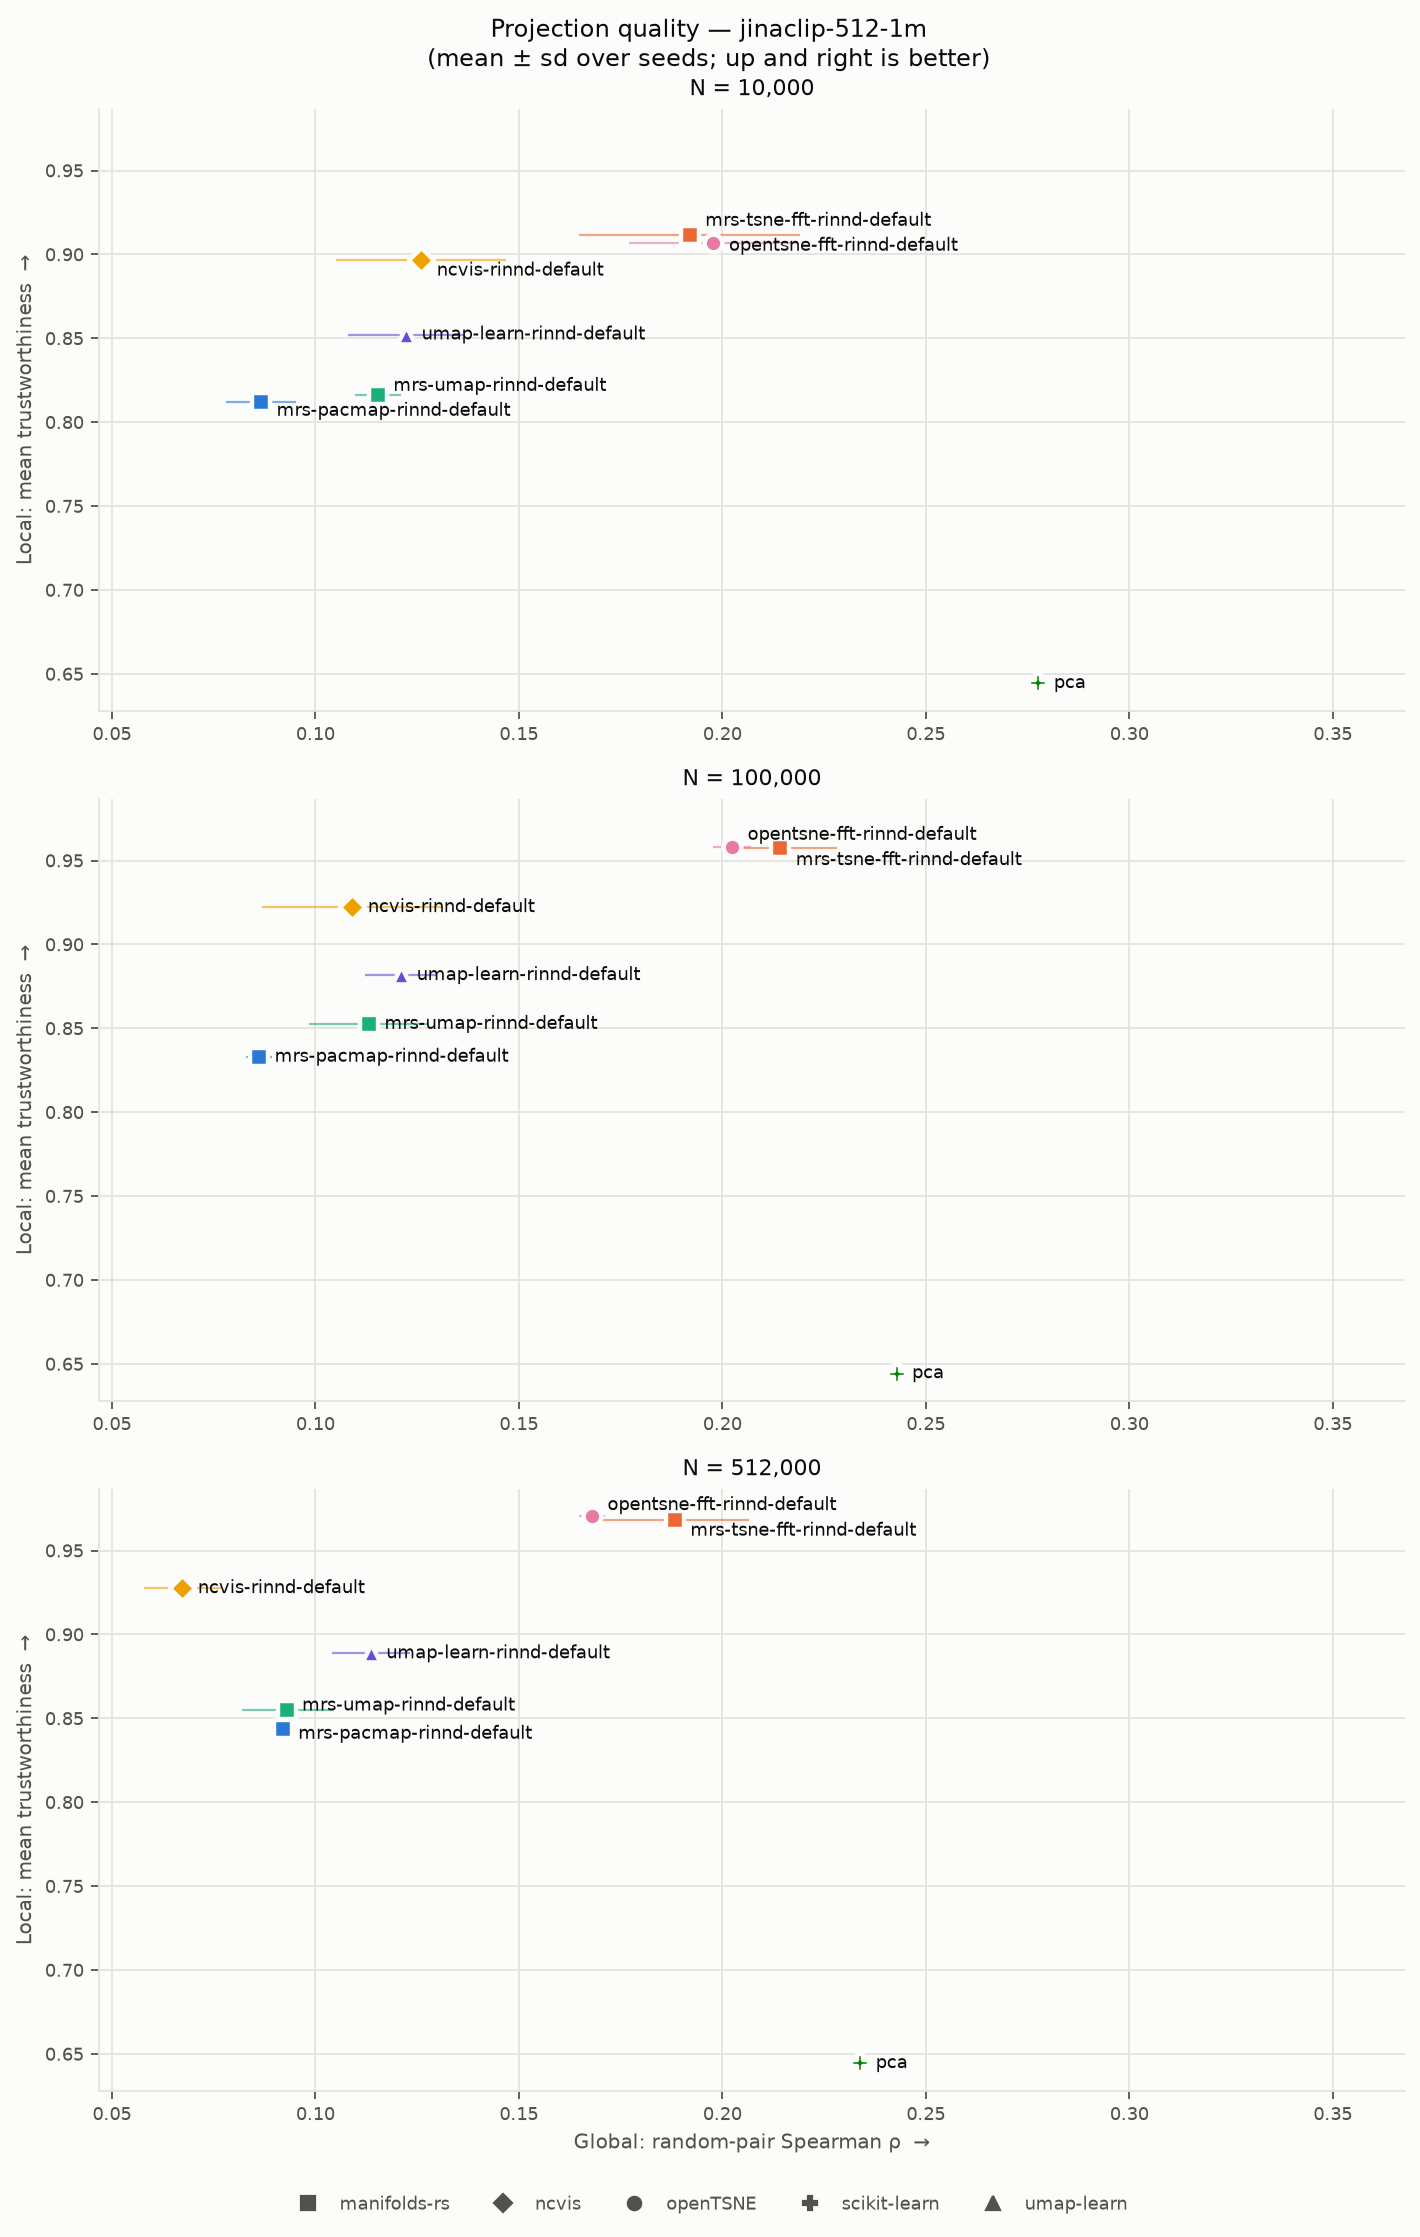
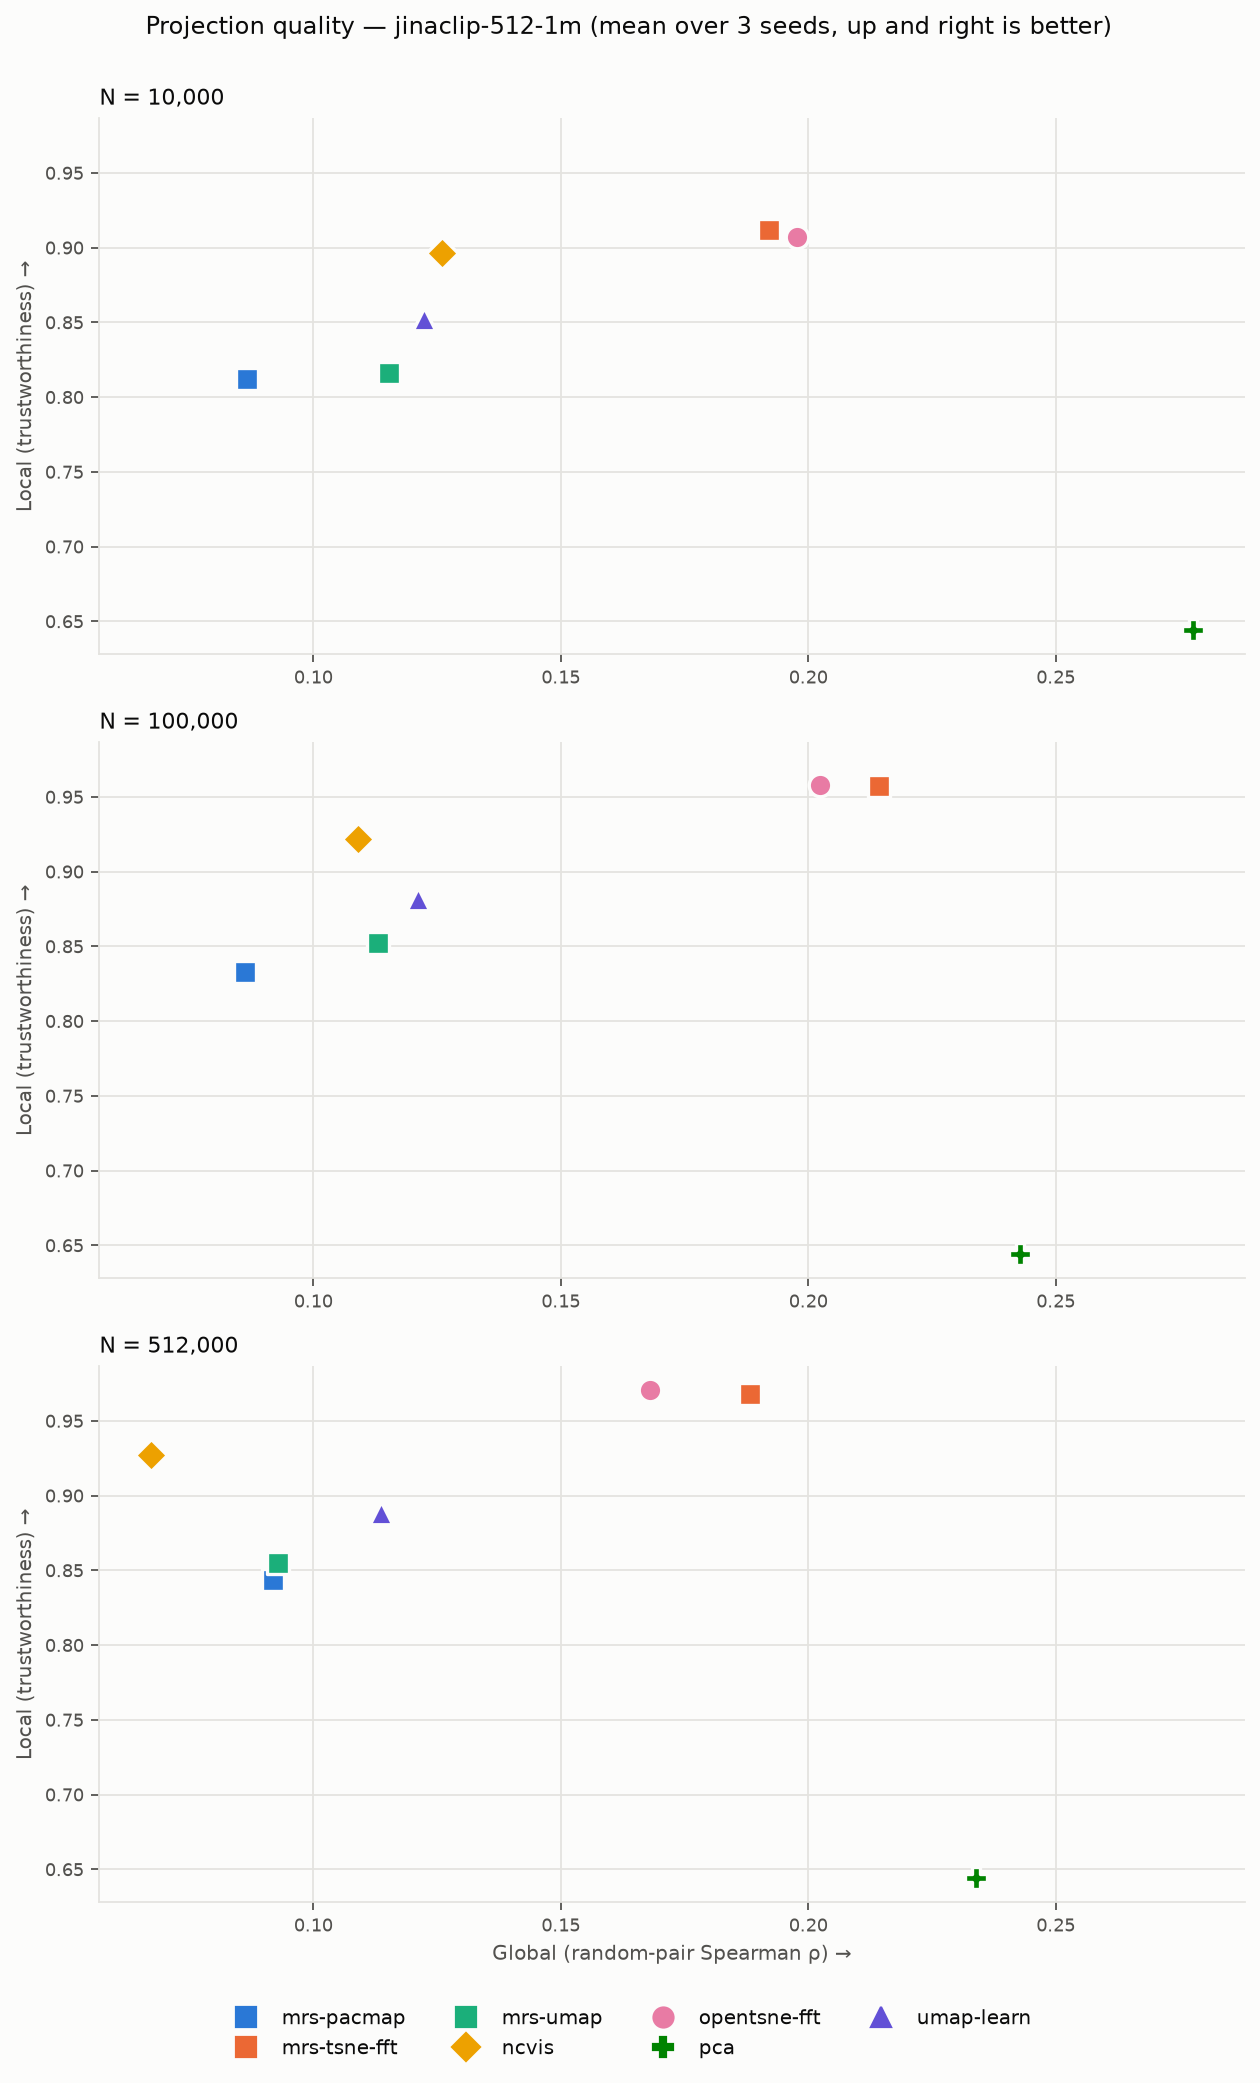
Quality map: points only, one legend per method (no error bars, no inline labels)

diff --git a/src/drbench/report/plots.py b/src/drbench/report/plots.py
@@ -195,78 +195,40 @@ def plot_curves(points: list[dict], dataset: str, path: Path) -> None:
 
 # Projection quality map: local (trustworthiness) vs global (pair ρ), one panel per N, one point
 # per algorithm. Colour slot = position in the sorted name list, so a colour follows its algorithm.
-MAP_LABEL_GAP = 0.05  # minimum vertical gap between labels, axes fraction
-MAP_LABEL_DX = 7
-
-
 def algorithm_colors(names: list[str]) -> dict[str, str]:
     return {name: CATEGORICAL[i % len(CATEGORICAL)] for i, name in enumerate(sorted(names))}
 
 
-def spread_positions(desired: list[float], gap: float) -> list[float]:
-    """Positions (ascending input) at least `gap` apart, each colliding group centred on the
-    mean of its desired positions, so labels move as little as possible."""
-    groups: list[list[float]] = []  # each: desired positions of one group
-    def placed(group: list[float]) -> list[float]:
-        start = float(np.mean(group)) - gap * (len(group) - 1) / 2
-        return [start + gap * i for i in range(len(group))]
-    for y in desired:
-        groups.append([y])
-        while len(groups) > 1 and placed(groups[-2])[-1] + gap > placed(groups[-1])[0]:
-            groups[-2:] = [groups[-2] + groups[-1]]
-    return [y for group in groups for y in placed(group)]
-
-
-def spread_labels(ax, labelled: list[tuple[str, float, float]]) -> None:
-    """Labels right of their points, spread vertically so none overlap."""
-    to_axes = ax.transAxes.inverted().transform
-    placed = sorted(
-        ((name, x, y, to_axes(ax.transData.transform((x, y)))[1]) for name, x, y in labelled),
-        key=lambda item: item[3],
-    )
-    targets = spread_positions([item[3] for item in placed], MAP_LABEL_GAP)
-    for (name, x, y, y_axes), target in zip(placed, targets):
-        dy_points = (target - y_axes) * ax.bbox.height * 72 / ax.figure.dpi
-        ax.annotate(name, (x, y), textcoords="offset points", xytext=(MAP_LABEL_DX, dy_points),
-                    va="center", fontsize=8, color=TEXT_PRIMARY)
+def short_name(algorithm: str) -> str:
+    return algorithm.removesuffix("-rinnd-default").removesuffix("-rinnd-fast")
 
 
 def plot_quality_map(points, dataset: str, path: Path) -> None:
-    """Local vs global score per algorithm, one panel per N stacked vertically, mean ± sd over
-    seeds. Up and right is better on both axes."""
+    """Local vs global score (mean over seeds) per algorithm, one panel per N stacked
+    vertically. Up and right is better on both axes. Identity: colour + marker, one legend."""
     names = sorted({p.algorithm for p in points})
     colors = algorithm_colors(names)
+    markers = {p.algorithm: LIBRARY_MARKERS.get(p.library, "o") for p in points}
     sizes = sorted({p.n for p in points})
-    fig, axes = plt.subplots(len(sizes), 1, figsize=(9, 4.6 * len(sizes)), facecolor=SURFACE,
+    fig, axes = plt.subplots(len(sizes), 1, figsize=(8, 4.2 * len(sizes)), facecolor=SURFACE,
                              sharex=True, sharey=True)
     for ax, n in zip(np.atleast_1d(axes), sizes):
         style_axes(ax)
-        labelled = []
         for p in (p for p in points if p.n == n):
-            x, y = p.mean["global"], p.mean["local"]
-            ax.errorbar(x, y, xerr=p.sd["global"], yerr=p.sd["local"], fmt="none",
-                        ecolor=colors[p.algorithm], elinewidth=1, alpha=0.6, zorder=2)
-            ax.scatter(x, y, s=MARKER_SIZE, color=colors[p.algorithm],
-                       marker=LIBRARY_MARKERS.get(p.library, "o"), edgecolors=SURFACE,
-                       linewidths=2, zorder=3)
-            labelled.append((p.algorithm, x, y))
-        ax.set_title(f"N = {n:,}", color=TEXT_PRIMARY, fontsize=10)
-        ax.set_ylabel("Local: mean trustworthiness  →", color=TEXT_SECONDARY, fontsize=9)
+            ax.scatter(p.mean["global"], p.mean["local"], s=MARKER_SIZE * 1.6,
+                       color=colors[p.algorithm], marker=markers[p.algorithm],
+                       edgecolors=SURFACE, linewidths=1.5, zorder=3)
+        ax.set_title(f"N = {n:,}", color=TEXT_PRIMARY, fontsize=10, loc="left")
+        ax.set_ylabel("Local (trustworthiness) →", color=TEXT_SECONDARY, fontsize=9)
         ax.tick_params(labelbottom=True)
-        ax.autoscale_view()
-        spread_labels(ax, labelled)
-    np.atleast_1d(axes)[-1].set_xlabel("Global: random-pair Spearman ρ  →", color=TEXT_SECONDARY,
-                                       fontsize=9)
-    right = max(p.mean["global"] for p in points)
-    for ax in np.atleast_1d(axes):
-        ax.set_xlim(right=right + 0.09)  # room for labels right of the points
-    handles = [plt.Line2D([], [], color=TEXT_SECONDARY, marker=LIBRARY_MARKERS.get(lib, "o"),
-                          linestyle="", label=lib)
-               for lib in sorted({p.library for p in points})]
-    fig.suptitle(f"Projection quality — {dataset}\n(mean ± sd over seeds; up and right is better)",
+    np.atleast_1d(axes)[-1].set_xlabel("Global (random-pair Spearman ρ) →",
+                                       color=TEXT_SECONDARY, fontsize=9)
+    handles = [plt.Line2D([], [], color=colors[name], marker=markers[name], markersize=9,
+                          linestyle="", label=short_name(name)) for name in names]
+    fig.suptitle(f"Projection quality — {dataset} (mean over 3 seeds, up and right is better)",
                  color=TEXT_PRIMARY, fontsize=11)
-    fig.tight_layout()
-    fig.legend(handles=handles, loc="upper center", bbox_to_anchor=(0.5, 0.0), ncol=len(handles),
-               frameon=False, fontsize=8, labelcolor=TEXT_SECONDARY)
+    fig.tight_layout(rect=(0, 0, 1, 0.98))
+    fig.legend(handles=handles, loc="upper center", bbox_to_anchor=(0.5, 0.0), ncol=4,
+               frameon=False, fontsize=9, labelcolor=TEXT_PRIMARY)
     fig.savefig(path, dpi=DPI, bbox_inches="tight", facecolor=SURFACE)
     plt.close(fig)

diff --git a/tests/test_scaling_report.py b/tests/test_scaling_report.py
@@ -1,14 +1,10 @@
 """Scaling report: seed aggregation, the relative combined score, ranked tables and the map."""
 
-import itertools
 from dataclasses import replace
 from pathlib import Path
 
-import pytest
-
 from drbench.config import load_config
 from drbench.metrics import METRICS_VERSION
-from drbench.report.plots import spread_positions
 from drbench.report.scaling import write_scaling_report
 from drbench.runner.records import append_jsonl, metrics_path, runs_path
 
@@ -50,10 +46,3 @@ def test_scaling_report_ranks_by_combined_score(tmp_path):
     assert report.count("## N = ") == len(SIZES)
     assert (tmp_path / "figures" / "dbpedia-512-100k-quality-map.png").stat().st_size
 
-
-def test_spread_positions_keeps_gap_and_centres_groups():
-    assert spread_positions([0.0, 0.5, 1.0], 0.1) == [0.0, 0.5, 1.0]
-    desired = [0.50, 0.50, 0.52]
-    placed = spread_positions(desired, 0.1)
-    assert all(b - a >= 0.1 - 1e-12 for a, b in itertools.pairwise(placed))
-    assert sum(placed) == pytest.approx(sum(desired))
